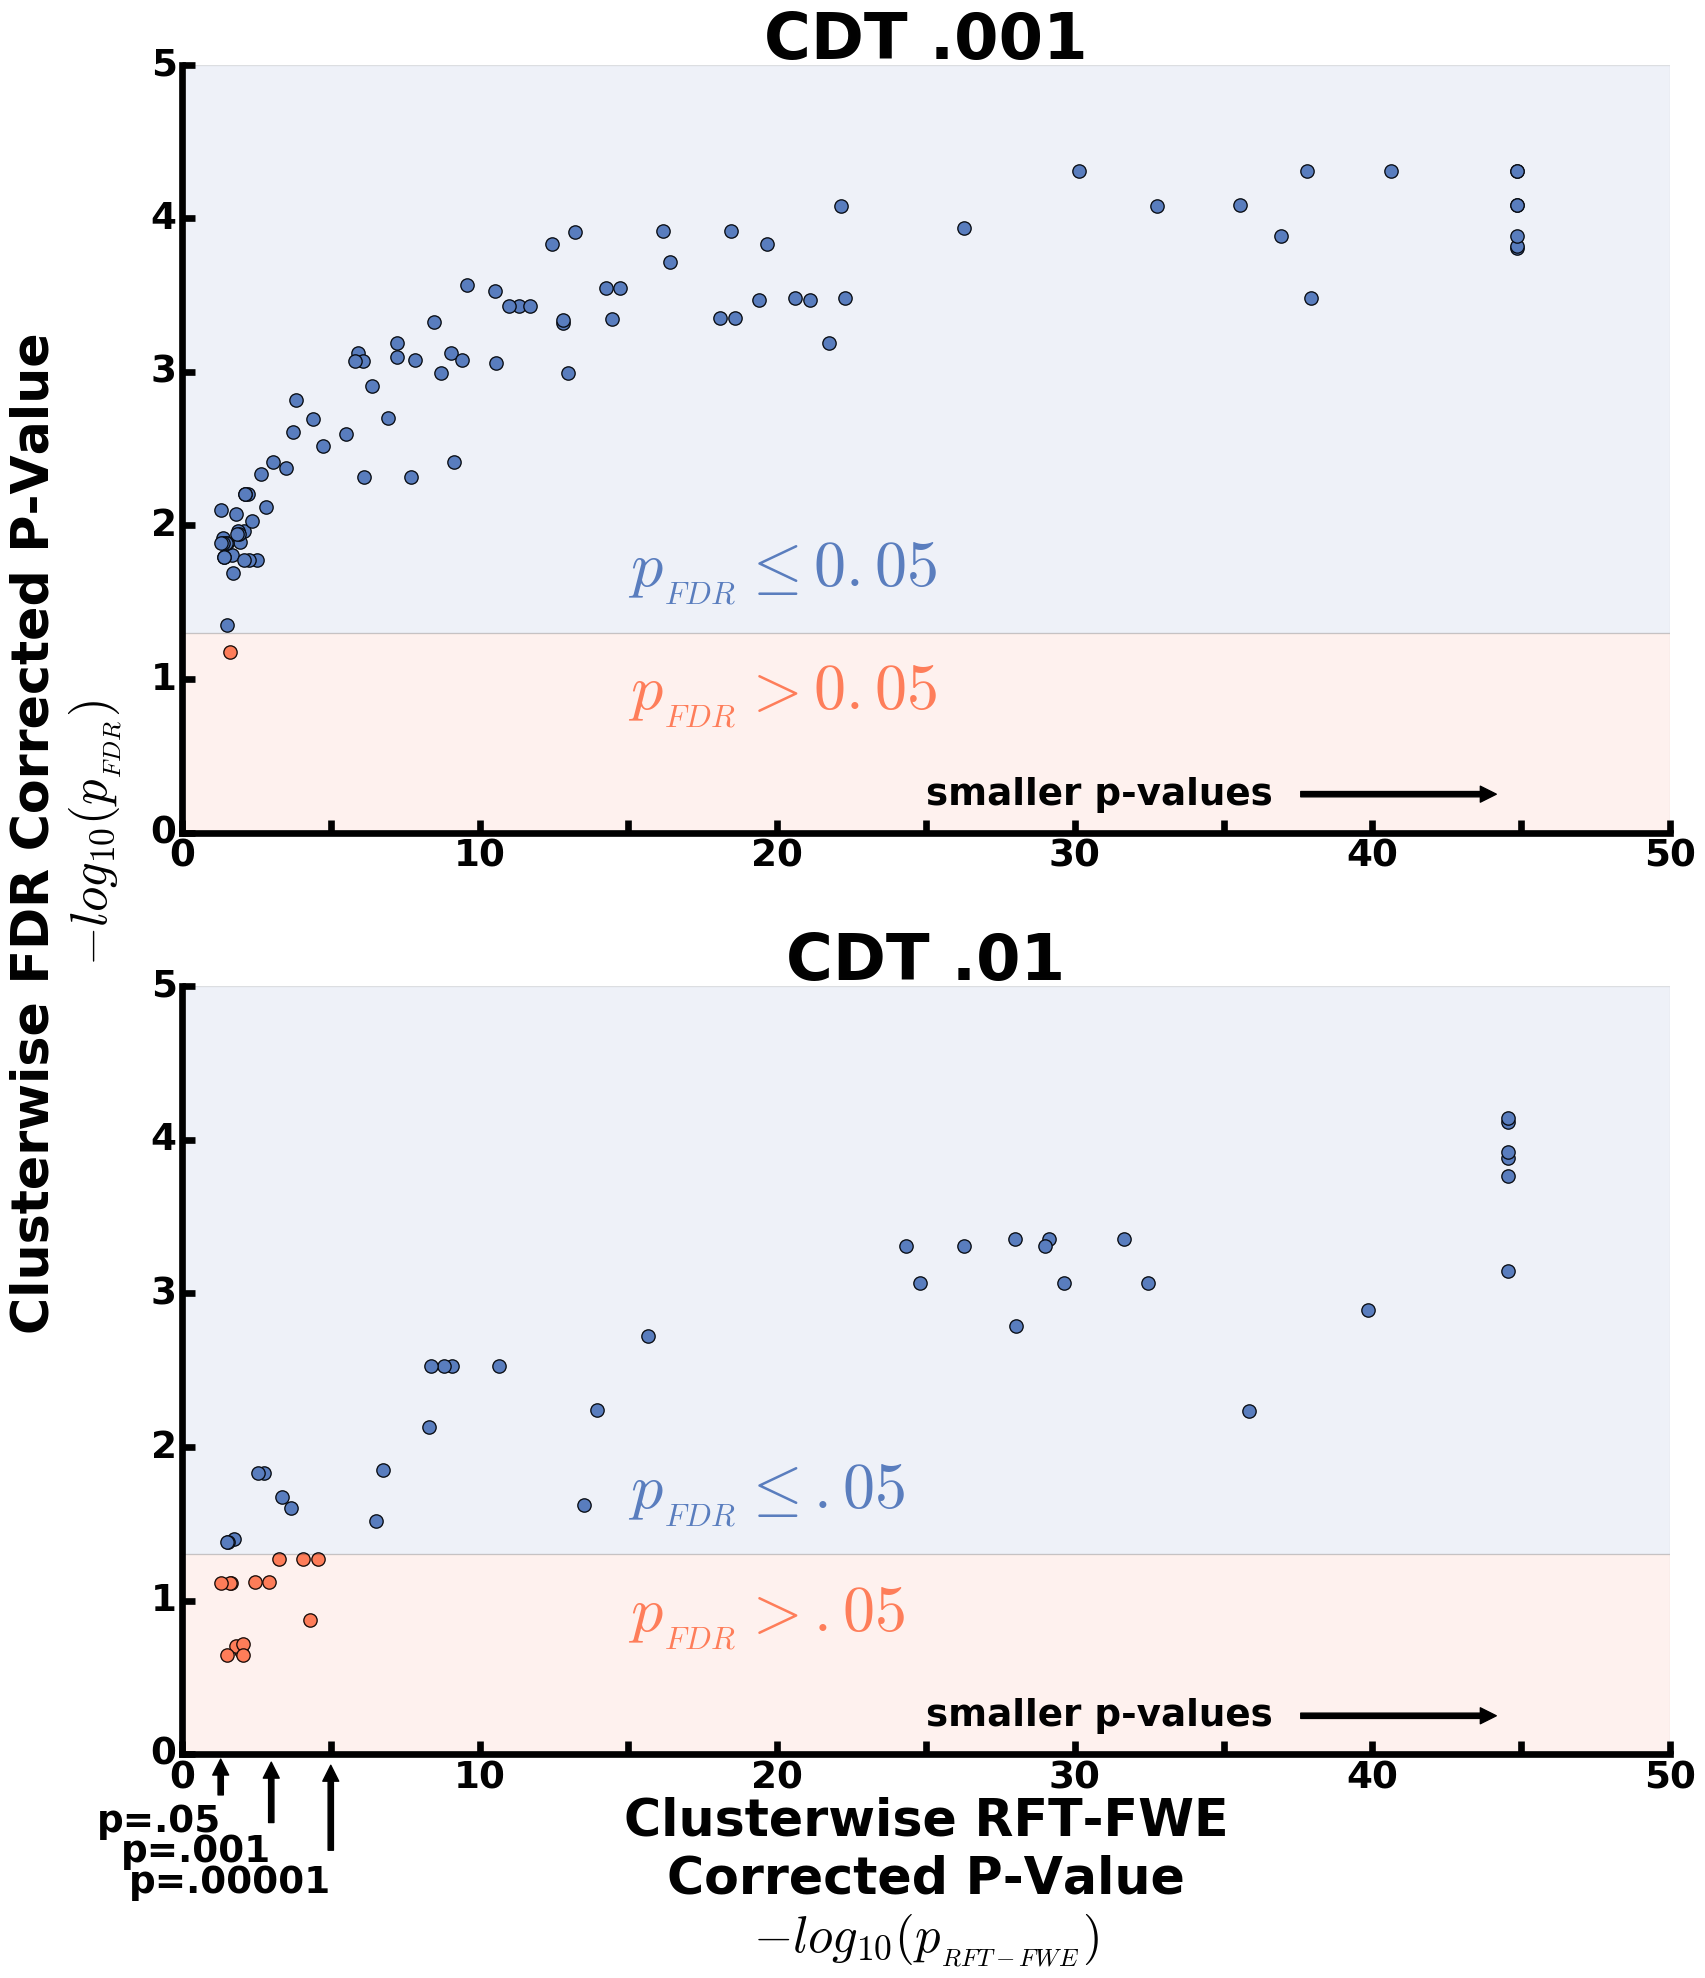
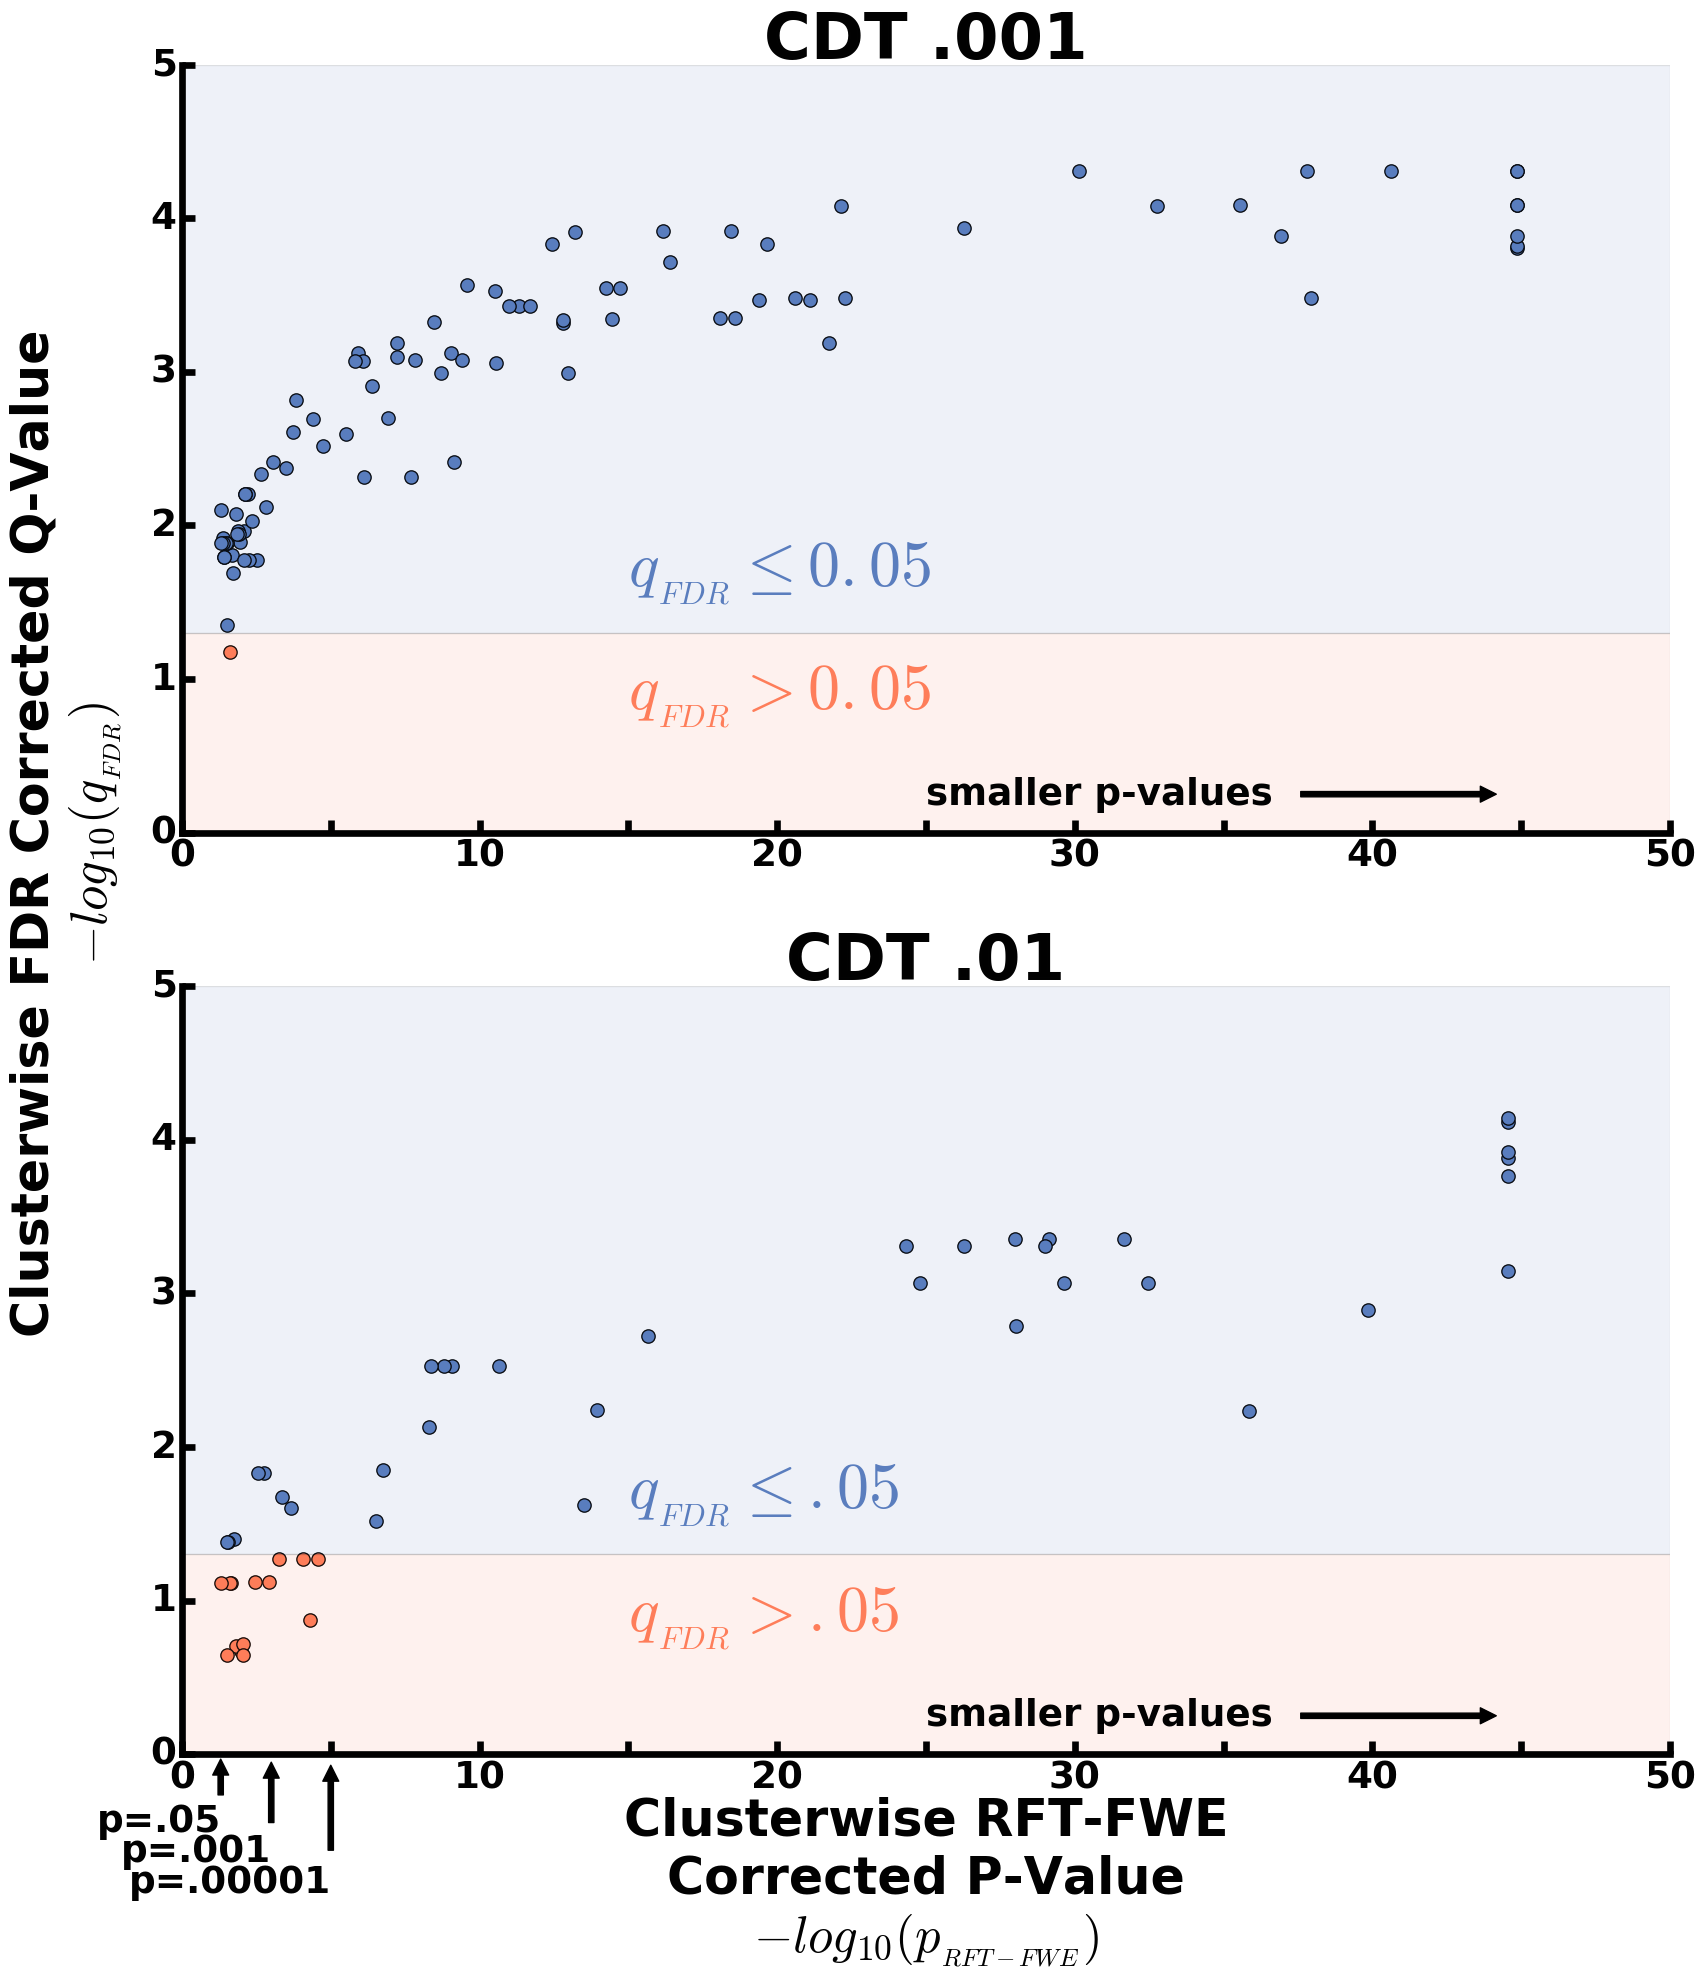
corrected FDR q values

diff --git a/Scripts/FDR_correct.py b/Scripts/FDR_correct.py
@@ -164,15 +164,15 @@ ax.spines["right"].set_visible(False)
 plt.setp(ax.spines.values(),linewidth=5)
 ax.yaxis.set_tick_params(width=5,length=10)
 ax.xaxis.set_tick_params(width=5,length=10)
-pfdrtext1 = '$p_{_{FDR}}\leq0.05$'
-pfdrtext2 = '$p_{_{FDR}}>0.05$'
+pfdrtext1 = '$q_{_{FDR}}\leq0.05$'
+pfdrtext2 = '$q_{_{FDR}}>0.05$'
 ax.text(15,-1*np.log10(0.05)+0.3,r''+pfdrtext1,fontproperties=fontTitle,color='#597dbe')
 ax.text(15,-1*np.log10(0.05)-0.5,r''+pfdrtext2,fontproperties=fontTitle,color='#fe7d59')
 plt.scatter(-1*np.log10(cdt001fwe[cdt001fdr<0.05]),-1*np.log10(cdt001fdr[cdt001fdr<0.05]),marker='o',s=100,edgecolors='black',zorder=1,facecolors='#597dbe')
 plt.scatter(-1*np.log10(cdt001fwe[cdt001fdr>0.05]),-1*np.log10(cdt001fdr[cdt001fdr>0.05]),marker='o',s=100,edgecolors='black',zorder=1,facecolors='#fe7d59')
 ax.add_patch(patches.Rectangle((0,-1*np.log10(0.05)),50,5-(-1*np.log10(0.05)),edgecolor=None,facecolor='#597dbe',alpha=0.1))
 ax.add_patch(patches.Rectangle((0,0),50,-1*np.log10(0.05),edgecolor=None,facecolor='#fe7d59',alpha=0.1))
-plt.ylabel('Clusterwise FDR Corrected P-Value\n'+r'$-log_{10}(p_{_{FDR}})$'+'\n',fontproperties=fontAxis,horizontalalignment='center')
+plt.ylabel('Clusterwise FDR Corrected Q-Value\n'+r'$-log_{10}(q_{_{FDR}})$'+'\n',fontproperties=fontAxis,horizontalalignment='center')
 plt.xticks(np.arange(0,51,5),xticklabels,fontproperties=fontLabel)
 plt.yticks(np.arange(0,6,1),fontproperties=fontLabel)
 plt.tick_params(axis="both",which="both",bottom="on",top="off",labelbottom="on",left="on",right="off",labelleft="on")	
@@ -192,8 +192,8 @@ ax.xaxis.set_tick_params(width=5,length=10)
 ax.annotate('p=.05',xy=(-1*np.log10(0.05),0),xytext=(-1*np.log10(0.05),-0.5),arrowprops=dict(facecolor='black',shrink=0.1),fontproperties=fontLabel,horizontalalignment='right')
 ax.annotate('p=.001',xy=(-1*np.log10(0.001),0),xytext=(-1*np.log10(0.001),-0.7),arrowprops=dict(facecolor='black',shrink=0.1),fontproperties=fontLabel,horizontalalignment='right')
 ax.annotate('p=.00001',xy=(-1*np.log10(0.00001),0),xytext=(-1*np.log10(0.00001),-0.9),arrowprops=dict(facecolor='black',shrink=0.1),fontproperties=fontLabel,horizontalalignment='right')
-pfdrtext1 = '$p_{_{FDR}}\leq.05$'
-pfdrtext2 = '$p_{_{FDR}}>.05$'
+pfdrtext1 = '$q_{_{FDR}}\leq.05$'
+pfdrtext2 = '$q_{_{FDR}}>.05$'
 ax.text(15,-1*np.log10(0.05)+0.3,r''+pfdrtext1,fontproperties=fontTitle,color='#597dbe')
 ax.text(15,-1*np.log10(0.05)-0.5,r''+pfdrtext2,fontproperties=fontTitle,color='#fe7d59')
 plt.scatter(-1*np.log10(cdt01fwe[cdt01fdr<0.05]),-1*np.log10(cdt01fdr[cdt01fdr<0.05]),marker='o',s=100,edgecolors='black',zorder=1,facecolors='#597dbe')
